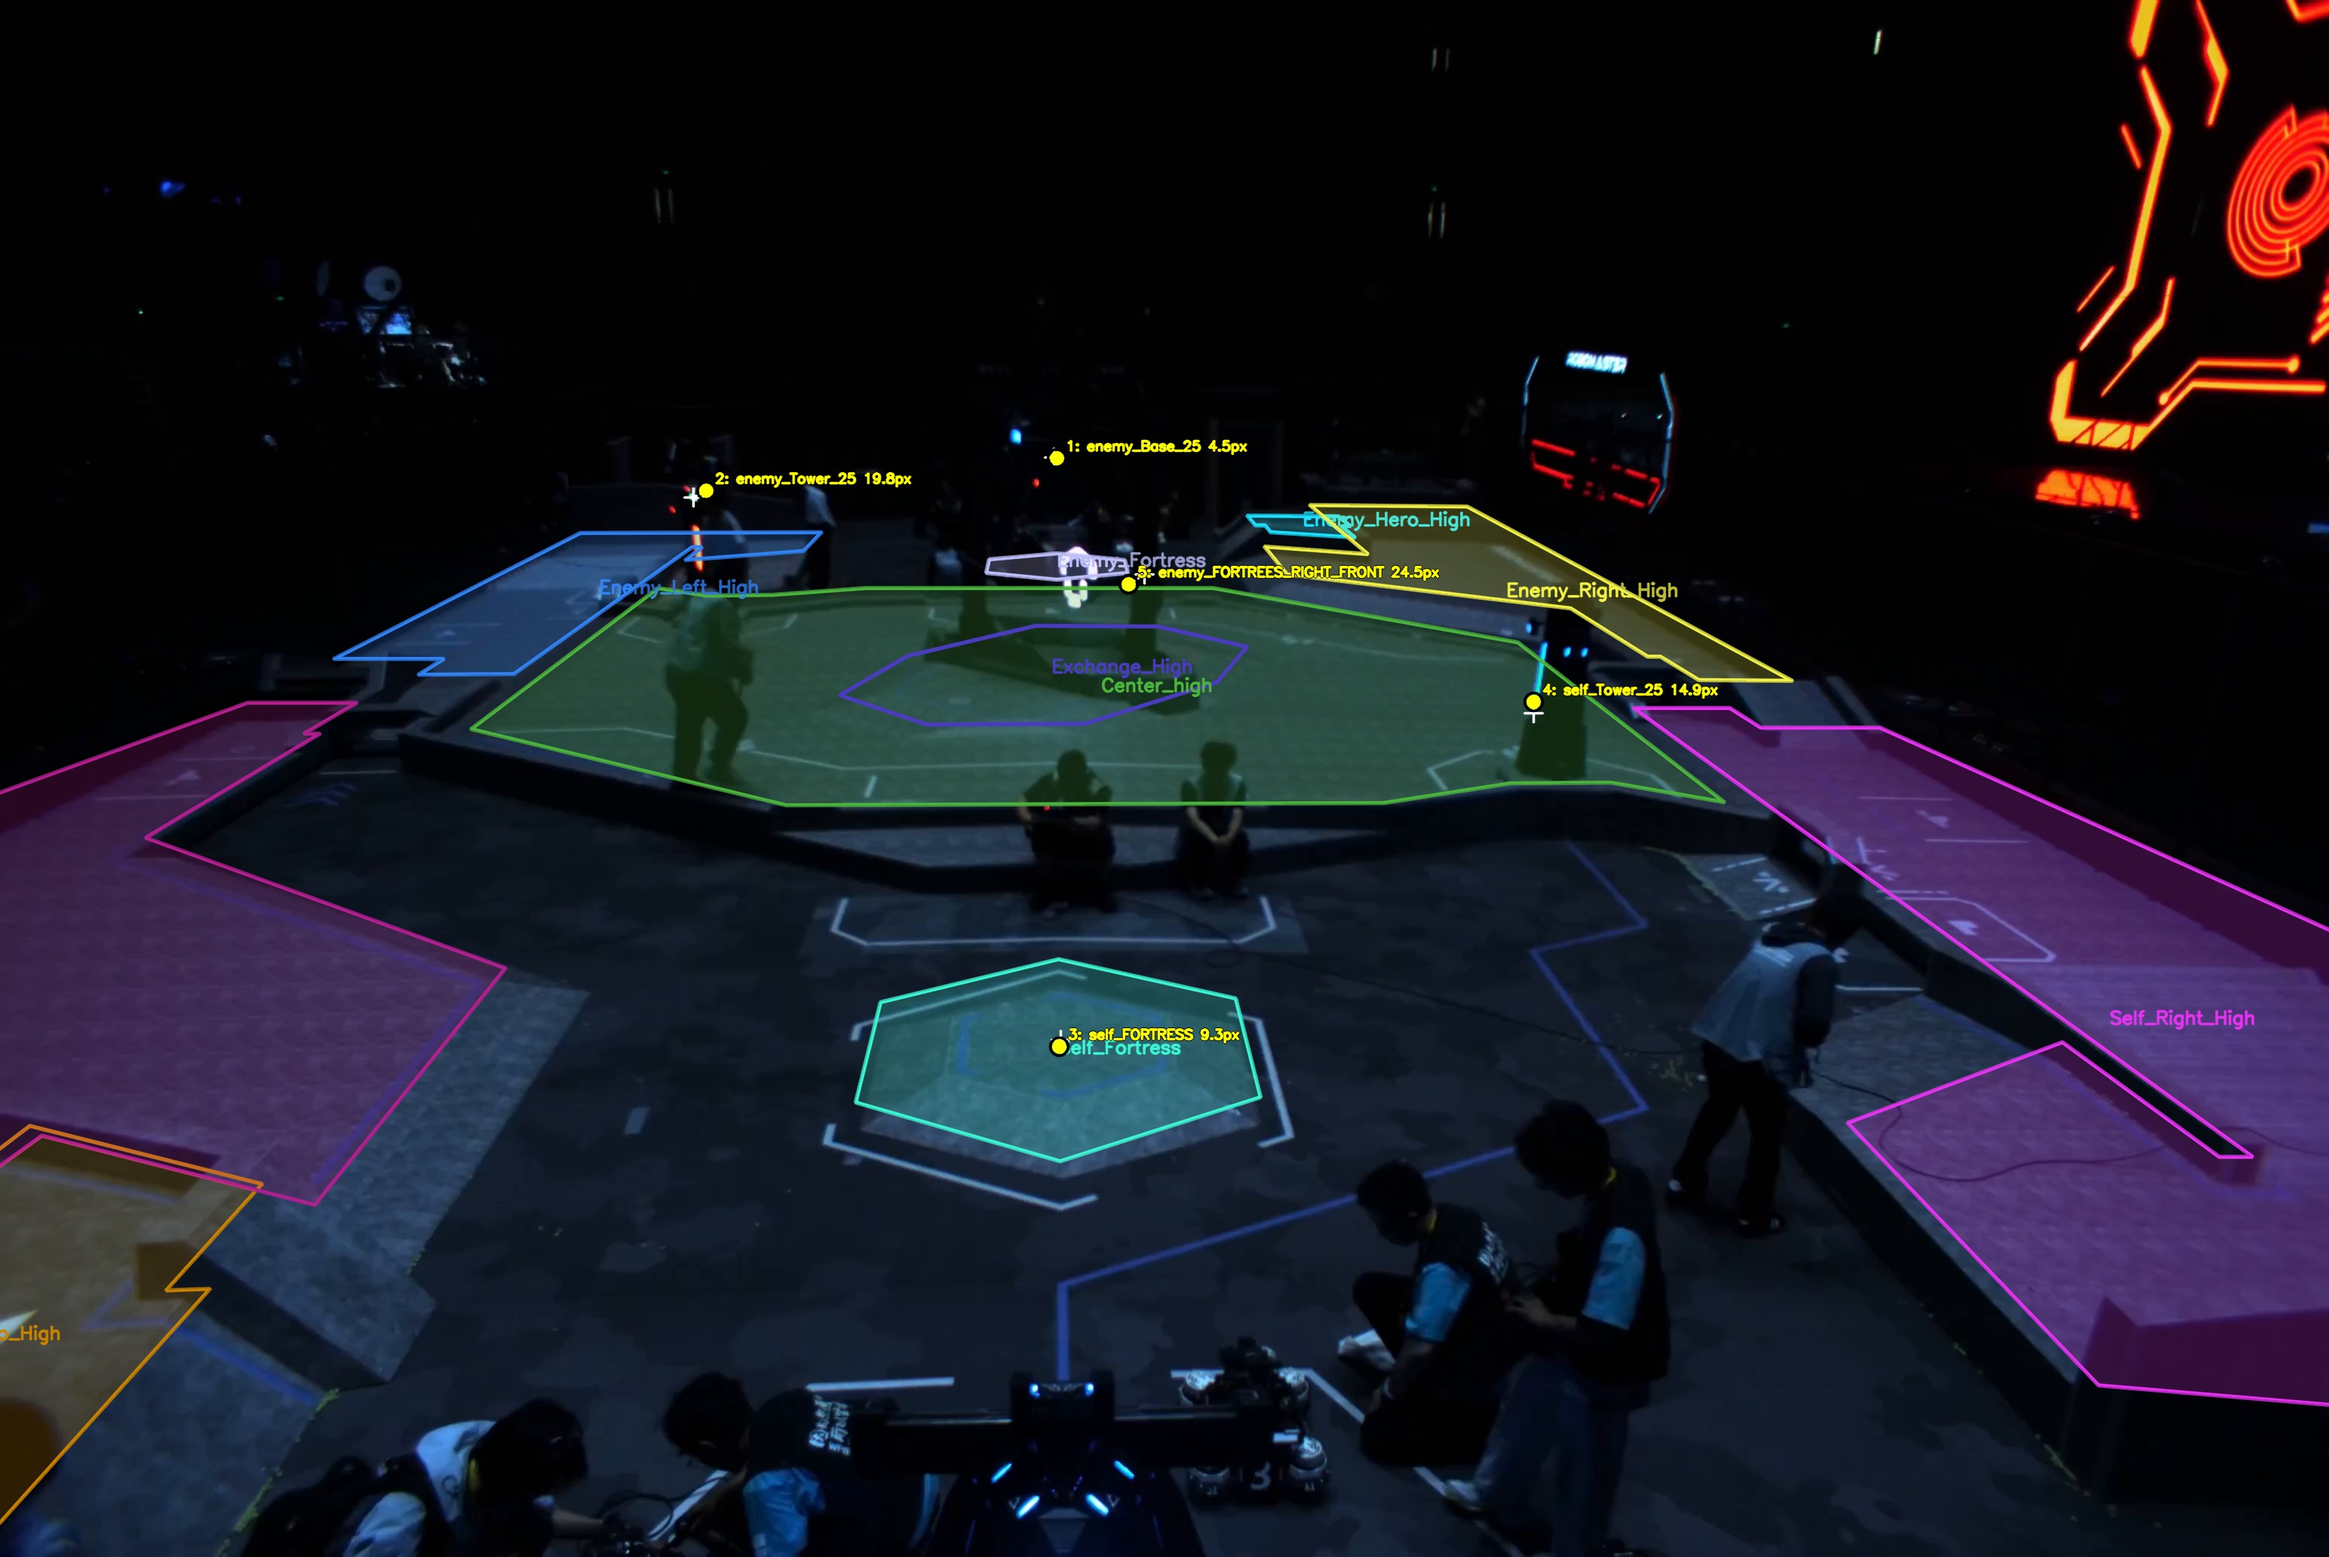
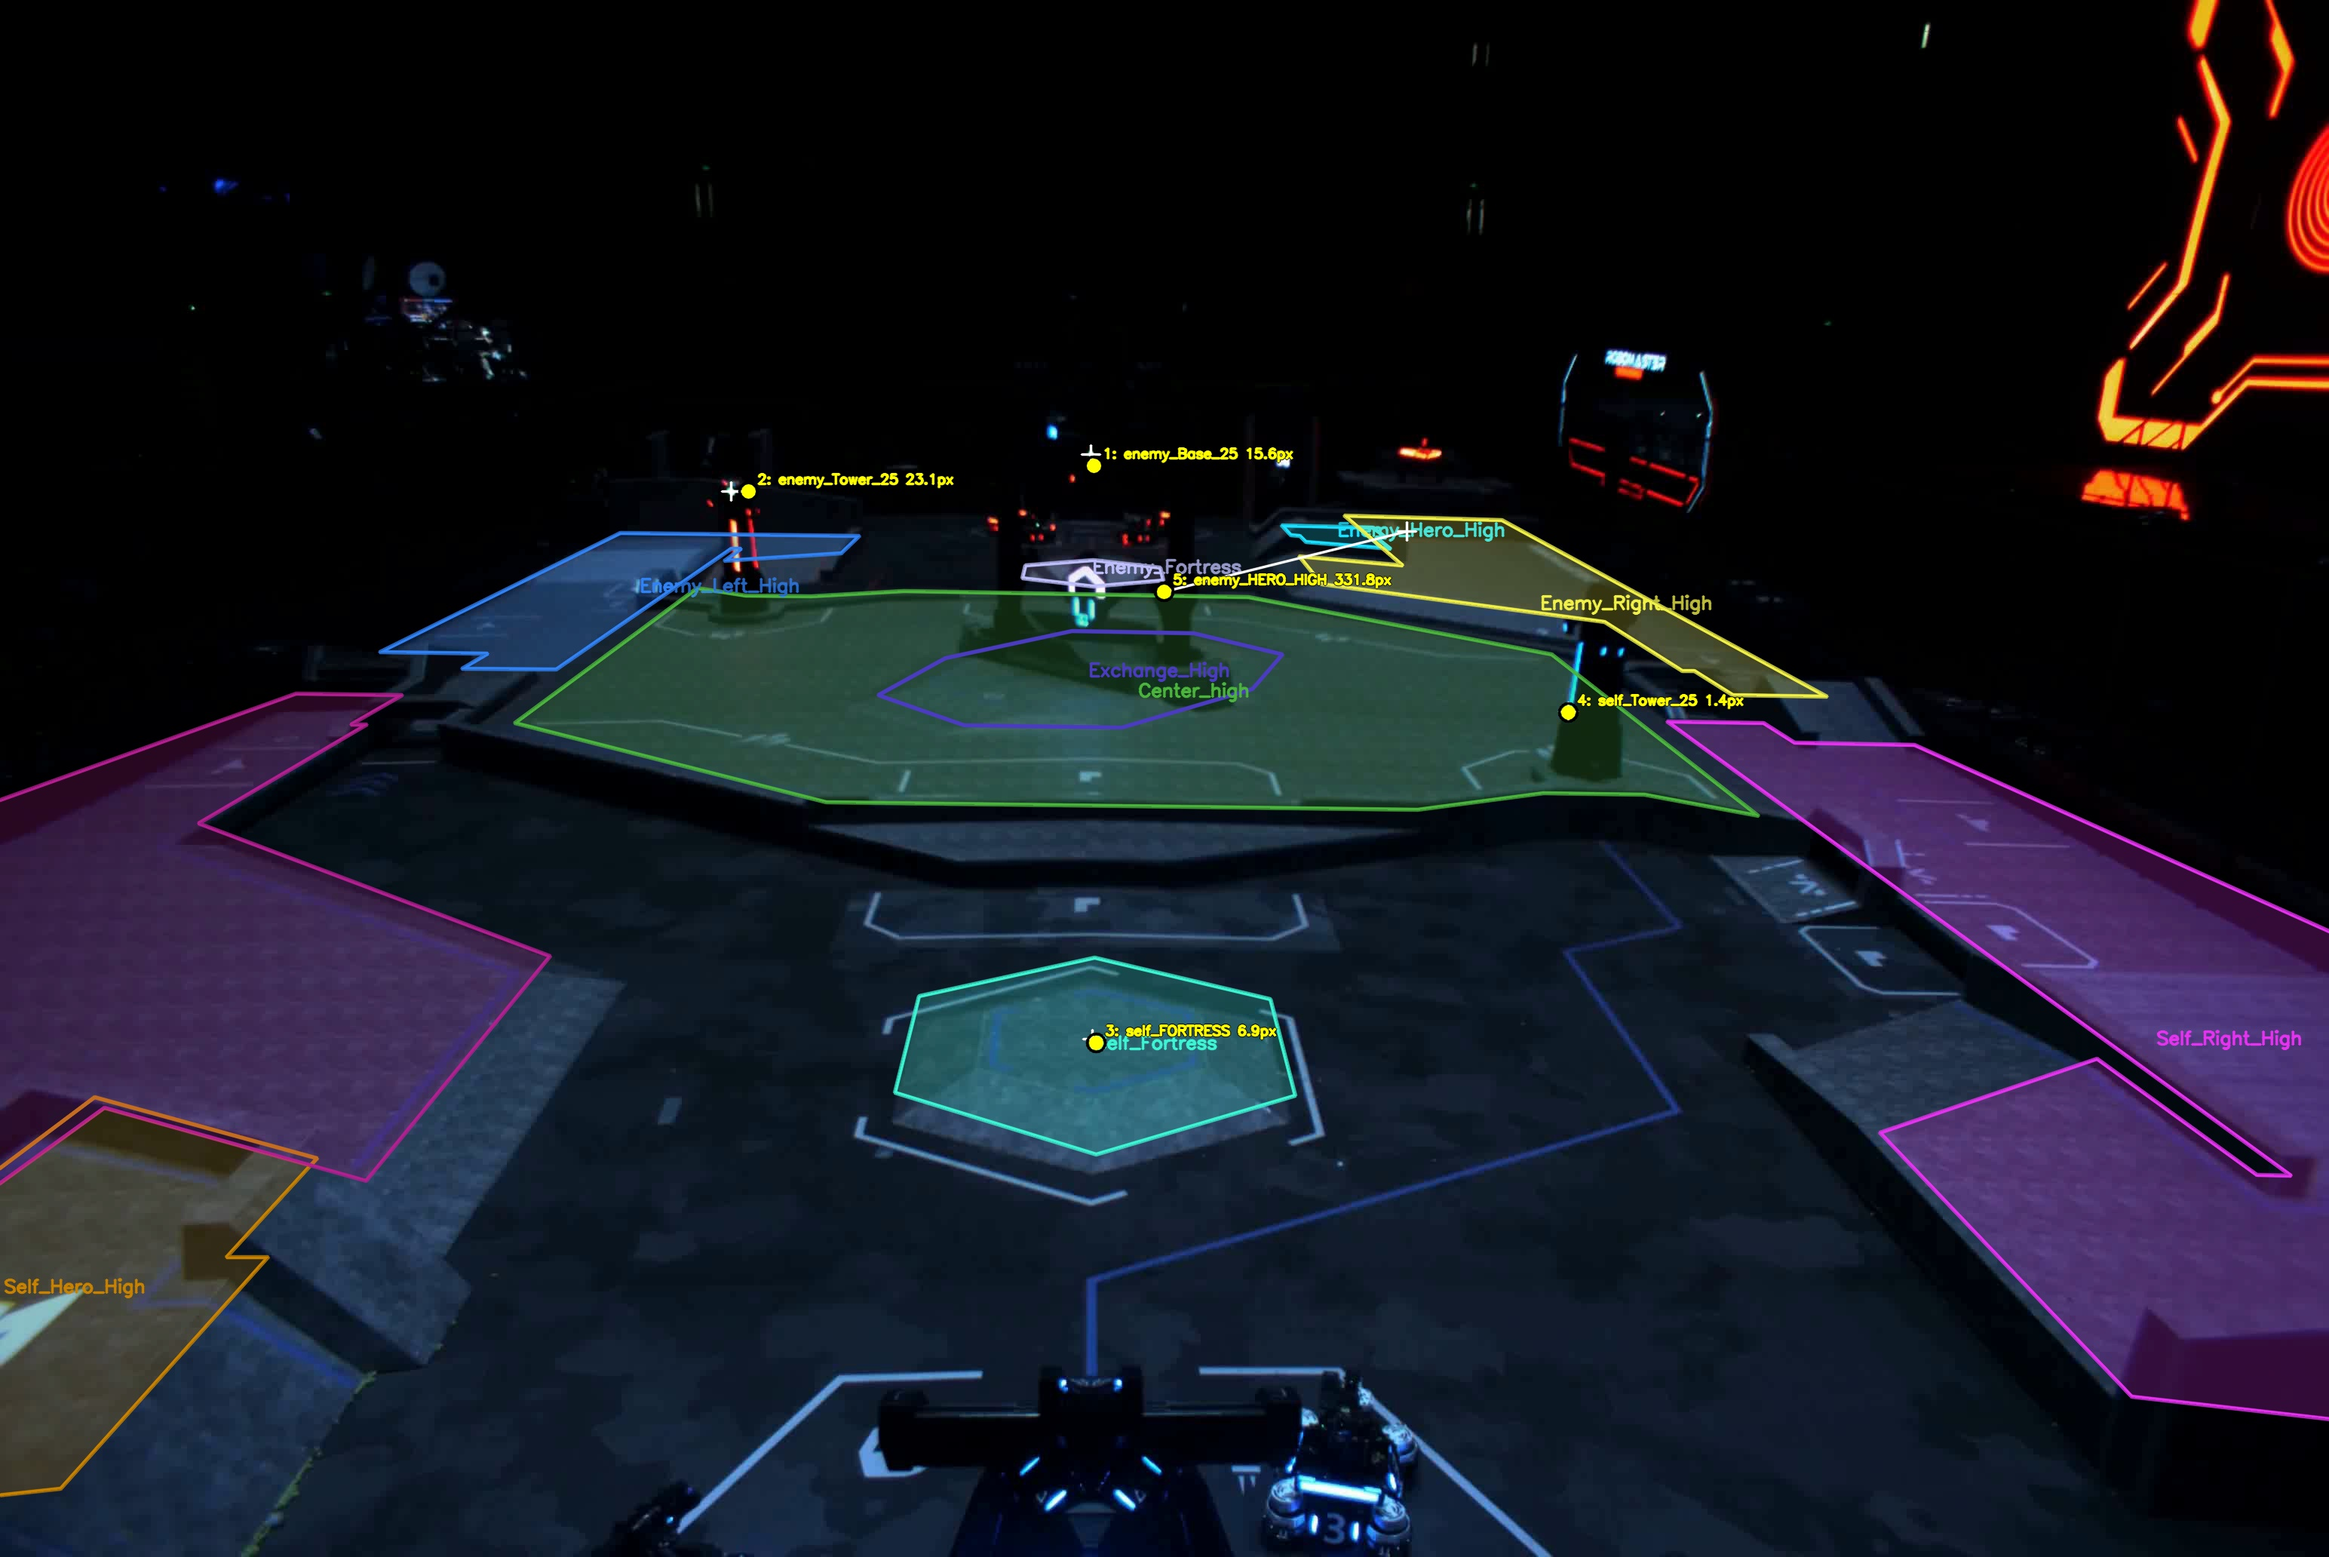
修改bug

diff --git a/debug/deubg_vision_locator.py b/debug/deubg_vision_locator.py
@@ -24,7 +24,7 @@ CALIBRATION_POINT_NAMES = [
     "enemy_Tower_25",
     "self_FORTRESS",
     "self_Tower_25",
-    "enemy_FORTREES_RIGHT_FRONT",
+    "enemy_HERO_HIGH",
 ]
 
 
@@ -87,7 +87,7 @@ def pick_five_points(image):
 
 
 def solve_field_to_camera(converter, pixel_points):
-    world_points = np.array(converter.real_points_25, dtype=np.float32)
+    world_points = np.array(converter.real_points_26, dtype=np.float32)
     ok, rotation_vector, translation_vector = cv2.solvePnP(
         world_points,
         pixel_points,

diff --git a/26_main.py b/26_main.py
@@ -34,11 +34,11 @@ def get_new_box(xyxy,xywh):
     if y > 2064 / 2:
         # 计算新的x1和y1
         new_x1 = x1+w/2
-        new_y1 = y1+h/2 + h/5 # 这里是为了更准确的定位车底盘位置
+        new_y1 = y1+h/2 + h/9 # 这里是为了更准确的定位车底盘位置
 
     else:
         new_x1 = x1+w/2
-        new_y1 = y1+h/2+h/7
+        new_y1 = y1+h/2+h/9
     return [new_x1,new_y1,new_x1,new_y1]
 
 

diff --git a/Lidar/vision_locator.py b/Lidar/vision_locator.py
@@ -10,7 +10,7 @@ class Vision_Locator:
         :param intrinsic_matrix: 相机的内参矩阵 (4x4)
         :param extrinsic_matrix: 相机的外参矩阵 (4x4)
         """
-        self.armor_height = 0.15
+        self.armor_height = 0.1
         self.K = intrinsic_matrix
         self.dist_coeffs = dist_coeffs
 

diff --git a/detect/Detector.py b/detect/Detector.py
@@ -476,7 +476,7 @@ class Detector:
             conf = conf_list[i]
             track_id = id_list[i]
             box = box_list[i]
-            x,y,h,w = box
+            x,y,w,h = box
 
             status = 0 # normal
 
